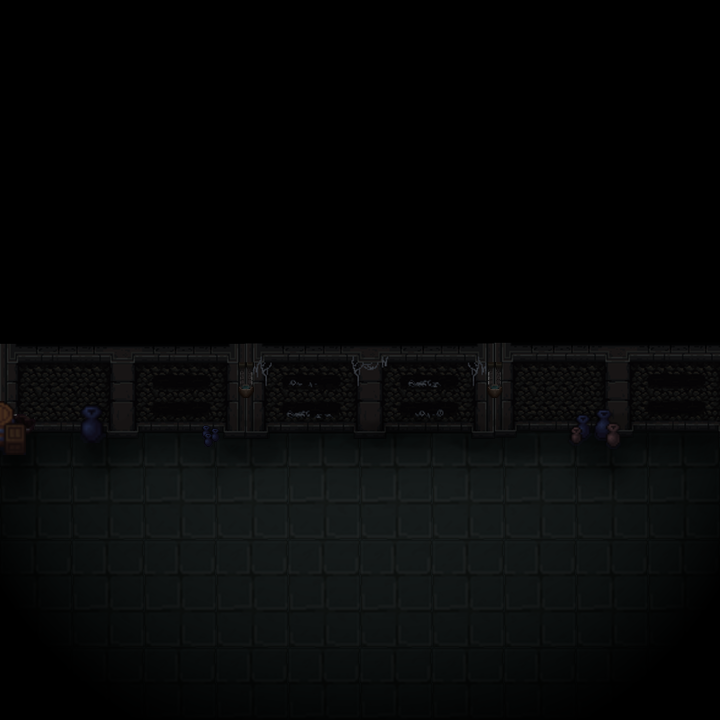
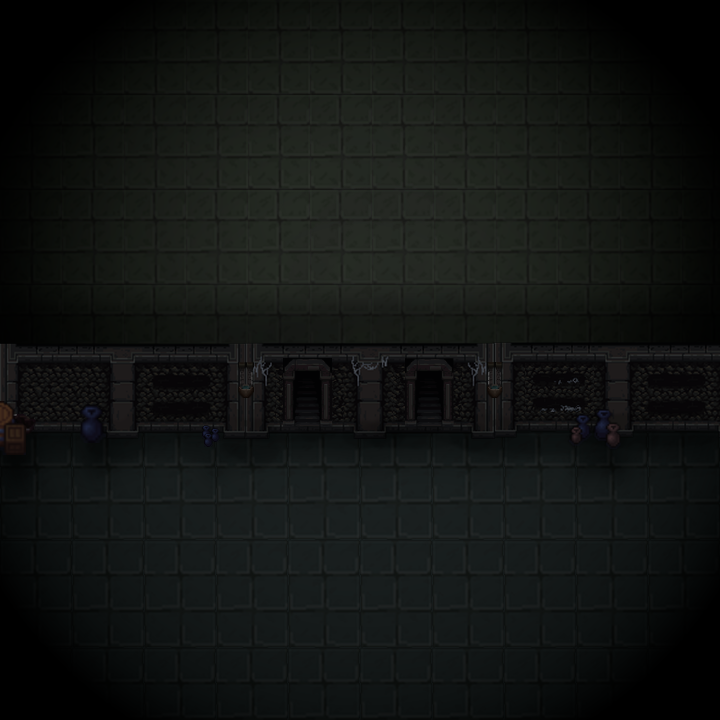
added custom cursor and also the matching grid tiles

diff --git a/src/grid.cpp b/src/grid.cpp
@@ -1,23 +1,97 @@
 #include "grid.h"
 #include "elements.h"
+#include <algorithm>
+#include <raymath.h>
+#include <cstdio>
 #include <raylib.h>
+#include "assets.h"
 
 void TileGrid::InitGrid()
 {
-    gridOffsetX = GetScreenWidth()/2 - ((GRID_SIZE/2) * (TILE_SIZE));
-    gridOffsetY = 10;
+    gridOffsetX = GetScreenWidth()/2 - (GRID_SIZE/2 * (TILE_SIZE));
+    gridOffsetY = 25 ;
+
+    tileTexture = LoadTexture("resources/tileButton.png");
 
     for (int i = 0; i < GRID_SIZE; i++)
     {
         for (int j = 0; j < GRID_SIZE; j++)
         {
-            grid[i][j].hexValue = RandomHex();
+            tiles[i][j].position = {gridOffsetX + (j * TILE_SIZE - 5), gridOffsetY + (i * TILE_SIZE - 5)};
+            tiles[i][j].rect = {gridOffsetX + (j * TILE_SIZE - 5), gridOffsetY + (i * TILE_SIZE - 5), TILE_SIZE, TILE_SIZE};
+            tiles[i][j].hexValue = RandomHex();
+            tiles[i][j].bIsHighlighted = false;
+            tiles[i][j].row = i;
+            tiles[i][j].col = j;
         }
     }
+
+    m_pTile_Focused = nullptr;
+    m_pTile_MatchingStart = nullptr;
+    m_pTile_MatchingEnd = nullptr;
 }
     
 void TileGrid::UpdateGrid()
 {
+    Vector2 mousePosition = GetMousePosition();
+
+
+    m_pTile_Focused = nullptr; 
+
+    // hovering on tiles
+    for (int i = 0; i < GRID_SIZE; i++)
+    {
+        for (int j = 0; j < GRID_SIZE; j++)
+        {
+            if (mousePosition.x > tiles[i][j].position.x && mousePosition.x < (tiles[i][j].position.x + TILE_SIZE))
+            {
+                if (mousePosition.y > tiles[i][j].position.y && mousePosition.y < (tiles[i][j].position.y + TILE_SIZE))
+                {
+                    tiles[i][j].bIsHighlighted = true; 
+                    m_pTile_Focused = &tiles[i][j];
+                }
+                else
+                {
+                    if (&tiles[i][j] != m_pTile_MatchingStart)
+                        tiles[i][j].bIsHighlighted = false; 
+                }
+            }
+            else
+            {
+                if (&tiles[i][j] != m_pTile_MatchingStart)
+                    tiles[i][j].bIsHighlighted = false;
+            }
+        
+        }
+    }
+
+    // getting track of selected tiles
+    if (IsMouseButtonPressed(MOUSE_LEFT_BUTTON) && m_pTile_Focused != nullptr)
+    {
+        if (m_pTile_MatchingStart == nullptr)
+        {
+            m_pTile_MatchingStart = m_pTile_Focused;
+            m_pTile_MatchingStart->bIsHighlighted = true;
+        }
+        else if (m_pTile_MatchingEnd == nullptr)
+        {
+            m_pTile_MatchingEnd = m_pTile_Focused;
+            CheckSelections();
+        }
+        else
+        {
+            m_pTile_MatchingStart = nullptr;
+            m_pTile_MatchingEnd = nullptr;
+        }
+
+    }
+
+    // i just put this here in case someone wants to reset their selection
+    if (IsMouseButtonPressed(MOUSE_RIGHT_BUTTON))
+    {
+            m_pTile_MatchingStart = nullptr;
+            m_pTile_MatchingEnd = nullptr;
+    }
 }
 
 void TileGrid::DrawGrid()
@@ -26,17 +100,16 @@ void TileGrid::DrawGrid()
     {
         for (int j = 0; j < GRID_SIZE; j++)
         {
-            Rectangle rect = {gridOffsetX + float(i * TILE_SIZE),gridOffsetY + float(j * TILE_SIZE),
-                 TILE_SIZE, TILE_SIZE};
-            DrawRectangleLinesEx(rect, 1, GRAY);
+            Rectangle sourceRect = {0,0, gameplay_grid_tile_width_height, gameplay_grid_tile_width_height};
+            
+            if (tiles[i][j].bIsHighlighted )
+                DrawText("A", tiles[i][j].position.x, tiles[i][j].position.y, 10, WHITE);
 
-            //Vector2 pos = {float(i * TILE_SIZE), float(j * TILE_SIZE)};
-
-            DrawTextEx(GetFontDefault(),
-            TextFormat("%c", GetHexSymbol(grid[i][j].hexValue)),
-            (Vector2) {rect.x + 12, rect.y + 8},
-            20,1,WHITE
-            );
+           
+            if (tiles[i][j].bIsHighlighted)
+                DrawTexturePro(tileTexture, sourceRect, tiles[i][j].rect, {0,0}, 0, GREEN);
+            else
+                DrawTexturePro(tileTexture, sourceRect, tiles[i][j].rect, {0,0}, 0, WHITE);
         }
     }
 }
@@ -60,4 +133,37 @@ EHexValues TileGrid::RandomHex() const
     int randomIndex = GetRandomValue(0, 4);
 
     return AllPossibleValues[randomIndex];
+}
+
+void TileGrid::CheckSelections()
+{
+
+
+    if (m_pTile_MatchingStart->row == m_pTile_MatchingEnd->row)
+    {
+        //printf("YES");
+
+        int sharedRow = m_pTile_MatchingStart->row; // just for clarification; might remove later
+        int minCol = std::min(m_pTile_MatchingStart->col, m_pTile_MatchingEnd->col);
+        int maxCol = std::max(m_pTile_MatchingStart->col, m_pTile_MatchingEnd->col);
+
+        for (int i = minCol; i <= maxCol; i++)
+        {
+            if (tiles[sharedRow][i].hexValue == m_pTile_MatchingStart->hexValue)
+            {}
+        }
+    }
+    else if (m_pTile_MatchingStart->col == m_pTile_MatchingEnd->col)
+    {
+
+    }
+
+    m_pTile_MatchingStart = nullptr;
+    m_pTile_MatchingEnd = nullptr;
+    return;
+}
+
+void RemoveTileFromGrid(const int& row, const int& col)
+{
+
 }

diff --git a/src/grid.h b/src/grid.h
@@ -2,7 +2,6 @@
 #define GRID_H
 
 #include <raylib.h>
-#include <raymath.h>
 #include "elements.h"
 
 #define GRID_SIZE 6
@@ -11,8 +10,13 @@
 
 struct FTile
 {
-  EHexValues hexValue;
-  bool bIsHighlighted;
+   Vector2 position;
+   Rectangle rect;
+   EHexValues hexValue;
+   bool bIsHighlighted;
+
+   int row;
+   int col;
 };
 
 class TileGrid
@@ -30,12 +34,19 @@ class TileGrid
 
     EHexValues RandomHex() const;
 
+    void CheckSelections();
+    void RemoveTileFromGrid(const int& row, const int& col);
+
  private:
 
     float gridOffsetX;
     float gridOffsetY;
 
-    FTile grid[GRID_SIZE][GRID_SIZE];
+    FTile tiles[GRID_SIZE][GRID_SIZE];
+    FTile* m_pTile_Focused;
+    FTile* m_pTile_MatchingStart;
+    FTile* m_pTile_MatchingEnd;
+    Texture2D tileTexture;
 };
 
 #endif /* GRID_H */

diff --git a/src/screen_title.cpp b/src/screen_title.cpp
@@ -1,4 +1,5 @@
 #include "screens.h"
+#include <raylib.h>
 
 
 static int frameCounter = 0;
@@ -8,9 +9,19 @@ static int frameTime = 0;
 static bool bShowTutorial = false;
 static bool bIsScreenFinished = false;
 
+static Texture2D titleTexture;
+static Texture2D fireTexture;
+static Texture2D freezeTexture;
+static Texture2D poisonTexture;
+static Texture2D poisonSmokeTexture;
+
+
+
 void InitTitleScreen()
 {
     bShowTutorial = false;
+
+    titleTexture = LoadTexture("resources/title/title.png");
 }
 
 void UpdateTitleScreen()
@@ -25,7 +36,11 @@ void DrawTitleScreen()
 
 void UnloadTitleScreen()
 {
-
+    UnloadTexture(titleTexture);
+    UnloadTexture(fireTexture);
+    UnloadTexture(freezeTexture);
+    UnloadTexture(poisonTexture);
+    UnloadTexture(poisonSmokeTexture);
 }
 
 int FinishTitleScreen()

diff --git a/src/raylib_game.cpp b/src/raylib_game.cpp
@@ -9,6 +9,7 @@
 *
 ********************************************************************************************/
 
+#include "assets.h"
 #include "raylib.h"
 #include "screens.h"
 
@@ -59,6 +60,8 @@ static int transToScreen = -1;
 // TODO: Define global variables here, recommended to make them static
 
 EGameScreen currentScreen = EGameScreen::LOGO;
+static Texture2D cursorTexture;
+static Vector2 cursorPosition = {0, 0};
 
 //----------------------------------------------------------------------------------
 // Module Functions Declaration
@@ -93,7 +96,11 @@ int main(void)
     //target = LoadRenderTexture(screenWidth, screenHeight);
     //SetTextureFilter(target.texture, TEXTURE_FILTER_BILINEAR);
 
+
+    cursorTexture = LoadTexture("resources/cursor.png");
     currentScreen = EGameScreen::GAMEPLAY;
+
+    HideCursor();
     InitGameplayScreen();
     //InitLogoScreen();
 
@@ -231,6 +238,8 @@ void UpdateDrawFrame(void)
     // TODO: Update variables / Implement example logic at this point
    
     frameCounter++;
+    cursorPosition = GetMousePosition();
+
     //----------------------------------------------------------------------------------
 
     // Draw
@@ -284,7 +293,9 @@ void UpdateDrawFrame(void)
             case GAMEPLAY: DrawGameplayScreen(); break;
             default: break;
         }
-
+        
+        DrawTexture(cursorTexture, cursorPosition.x - global_cursor_width_height/4,
+             cursorPosition.y - global_cursor_width_height/4, Fade(PINK, .45f));
 
     EndDrawing();
     //----------------------------------------------------------------------------------  

diff --git a/src/screen_gameplay.cpp b/src/screen_gameplay.cpp
@@ -102,12 +102,17 @@ void DrawGameplayScreen()
 
     Rectangle torchSourceRec = {float(currentTorchFrame * gameplay_torch_width) , 0,
          gameplay_torch_width, gameplay_torch_height};
-    Rectangle torchLightSourceRec = {float(currentTorchFrame * gameplay_torch_light_width_height) , 0,
+    Rectangle torchLightSourceRect = {float(currentTorchFrame * gameplay_torch_light_width_height) , 0,
          gameplay_torch_light_width_height, gameplay_torch_light_width_height};
     for (int i = 0; i < 3; i++)
     {
+        Rectangle torchLightDestRect = {torches[i].rectLight.x - 30, torches[i].rectLight.y - 30,
+        gameplay_torch_light_width_height * 1.5, gameplay_torch_light_width_height * 1.5};
+
         DrawTextureRec(torchTexture, torchSourceRec, (Vector2){torches[i].rectTorch.x, torches[i].rectTorch.y}, Fade(WHITE, .8f));
-        DrawTextureRec(torchLightTexture, torchLightSourceRec, (Vector2){torches[i].rectLight.x, torches[i].rectLight.y}, Fade(ORANGE, .45f));
+        //DrawTextureRec(torchLightTexture, torchLightSourceRect, (Vector2){torches[i].rectLight.x, torches[i].rectLight.y}, Fade(ORANGE, .45f));
+        DrawTexturePro(torchLightTexture, torchLightSourceRect, torchLightDestRect,
+             {0,0}, 0, Fade(ORANGE, .35f));
     }
 
 

diff --git a/src/player.cpp b/src/player.cpp
@@ -19,8 +19,8 @@ void Player::InitPlayer()
     playerTexture = LoadTexture("resources/player.png");
     playerLight = LoadTexture("resources/playerLight.png");
 
-    position.x = (float(GetScreenWidth()) / 2) - scaledWidth/2;
-    position.y = (float(GetScreenHeight()) /2) + (scaledHeight * 2) - (float)scaledHeight/2;
+    position.x = (float(GetScreenWidth()) / 2) - scaledWidth/2 + 5; //i added offset by 5 , now its not centered but i f* upped the map texture so this will look better;
+    position.y = (float(GetScreenHeight()) /2) + (scaledHeight * 2) - (float)scaledHeight/2 -20; // 20 is an offset;
 }
 
 void Player::UpdatePlayer()
@@ -37,7 +37,6 @@ void Player::UpdatePlayer()
     if (currentFrame >= maxFrames)
         currentFrame = 0;
 
-    printf("%d\n", currentFrame);
 }
 
 void Player::DrawPlayer()

diff --git a/src/assets.h b/src/assets.h
@@ -1,10 +1,12 @@
 #ifndef ASSETS_H
 #define ASSETS_H
 
+#define global_cursor_width_height 32
 #define gameplay_torch_width 64
 #define gameplay_torch_height 32
 #define gameplay_torch_light_width_height 128
 #define gameplay_player_width 32
 #define gameplay_player_height 36
+#define gameplay_grid_tile_width_height 16
 
 #endif /* ASSETS_H */